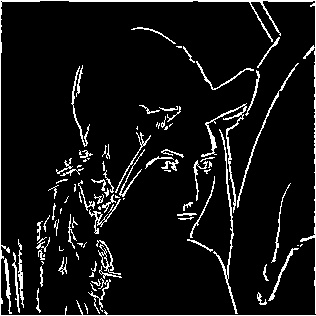
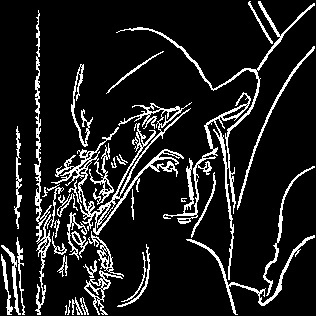
Refactor image processing code and update Canny edge detector in Q class

diff --git a/HW6/110590004_hw6.py b/HW6/110590004_hw6.py
@@ -19,7 +19,7 @@ def problem(func):
 
 class Q:
     def __init__(self):
-        
+
         self.origin_images = [cv2.imread(
             './images/img' + str(i) + '.jpg') for i in range(1, 4)]
         self.images = []
@@ -28,11 +28,14 @@ class Q:
                 (self.origin_images[i - 1].shape[0], self.origin_images[i - 1].shape[1]), dtype=np.float64)
             for row in range(self.origin_images[i - 1].shape[0]):
                 for col in range(self.origin_images[i - 1].shape[1]):
-                    r, g, b = self.origin_images[i - 1][row][col].astype(np.float64)
-                    img[row][col] = 0.299 * r + 0.587 * g + 0.114 * b 
+                    r, g, b = self.origin_images[i -
+                                                 1][row][col].astype(np.float64)
+                    img[row][col] = 0.299 * r + 0.587 * g + 0.114 * b
             self.images.append(img)
+
         def legal(h, w, row, col):
             return row >= 0 and row < h and col >= 0 and col < w
+
         def get_n_neighbors(img, row, col, n):
             result = np.zeros((n, n))
             h, w = img.shape
@@ -42,31 +45,48 @@ class Q:
                     if legal(h, w, row + i - offset, col + j - offset):
                         result[i][j] = img[row + i - offset][col + j - offset]
             return result
+
         def gaussian_filter(img, kernel_size, sigma=1):
             kernel = np.zeros((kernel_size, kernel_size))
             offset = kernel_size // 2
-            for i in range(kernel_size):
-                for j in range(kernel_size):
-                    kernel[i][j] = np.exp(-((i - offset)**2 + (j - offset)**2) / (2 * sigma**2))
+            for i in range(0, kernel_size):
+                for j in range(0, kernel_size):
+                    kernel[i][j] = np.exp(-((i - offset) **
+                                          2 + (j - offset)**2) / (2 * sigma**2))
             kernel /= np.sum(kernel)
             h, w = img.shape
             result = np.zeros((h, w))
             with alive_bar(h * w) as bar:
-                for row in range(h):
-                    for col in range(w):
+                for row in range(0, h):
+                    for col in range(0, w):
+                        if row == 0 or row == h - 1 or col == 0 or col == w - 1:
+                            result[row][col] = img[row][col]
                         neighbors = get_n_neighbors(img, row, col, kernel_size)
                         result[row][col] = np.sum(neighbors * kernel)
                         bar()
+            for i in range(h):
+                result[i][0] = result[i][1]
+                result[i][w-1] = result[i][w-2]
+            for i in range(w):
+                result[0][i] = result[1][i]
+                result[h-1][i] = result[h-2][i]
             return result
+
         def Sobel(img):
             kernel_x = np.array([[-1, 0, 1], [-2, 0, 2], [-1, 0, 1]])
-            kernel_y = np.array([[1, 2, 1], [0, 0, 0], [-1, -2, -1]])
+            kernel_y = np.array([[-1, -2, -1], [0, 0, 0], [1, 2, 1]])
             h, w = img.shape
             result_G = np.zeros((h, w))
             result_theta = np.zeros((h, w))
             with alive_bar(h * w) as bar:
+                # Skip the border
                 for row in range(h):
                     for col in range(w):
+                        if row == 0 or row == h - 1 or col == 0 or col == w - 1:
+                            result_G[row][col] = 0
+                            result_theta[row][col] = 0
+                            bar()
+                            continue
                         neighbors = get_n_neighbors(img, row, col, 3)
                         Gx = np.sum(neighbors * kernel_x)
                         Gy = np.sum(neighbors * kernel_y)
@@ -74,6 +94,7 @@ class Q:
                         result_theta[row][col] = np.arctan2(Gy, Gx)
                         bar()
             return result_G, result_theta
+
         def non_maximum_suppression(G, theta):
             h, w = G.shape
             result = np.zeros((h, w))
@@ -82,8 +103,8 @@ class Q:
                     rad = theta[row][col]
                     angle = np.rad2deg(rad) % 180
                     neighbors = get_n_neighbors(G, row, col, 3)
-                    dirs = [0 , 45, 90, 135]
-                    closet_dir = min(dirs, key=lambda x:abs(x-angle))
+                    dirs = [0, 45, 90, 135]
+                    closet_dir = min(dirs, key=lambda x: abs(x-angle))
                     if closet_dir == 0:
                         if G[row][col] >= neighbors[1][1] and G[row][col] >= neighbors[1][2]:
                             result[row][col] = G[row][col]
@@ -97,6 +118,7 @@ class Q:
                         if G[row][col] >= neighbors[1][1] and G[row][col] >= neighbors[2][0]:
                             result[row][col] = G[row][col]
             return result
+
         def double_thresholding(img, low, high):
             h, w = img.shape
             result = np.zeros((h, w))
@@ -107,38 +129,44 @@ class Q:
                     elif img[row][col] >= low:
                         result[row][col] = 128
             return result
+
         def edge_tracking_by_hysteresis(img):
 
             h, w = img.shape
             visited = np.zeros((h, w))
 
+            def dfs(q: list):
+                while len(q) > 0:
+                    r, c = q.pop()
+                    for i in range(-1, 2):
+                        for j in range(-1, 2):
+                            if legal(h, w, r + i, c + j) and img[r + i][c + j] == 128 and visited[r + i][c + j] == 0:
+                                visited[r + i][c + j] = 1
+                                img[r + i][c + j] = 255
+                                q.append((r + i, c + j))
             for row in range(h):
                 for col in range(w):
+                    # flood from strong edge
                     if img[row][col] == 255 and visited[row][col] == 0:
                         visited[row][col] = 1
-                        q = [(row, col)]
-                        while len(q) > 0:
-                            r, c = q.pop()
-                            for i in range(-1, 2):
-                                for j in range(-1, 2):
-                                    if legal(h, w, r + i, c + j) and img[r + i][c + j] == 128 and visited[r + i][c + j] == 0:
-                                        visited[r + i][c + j] = 1
-                                        img[r + i][c + j] = 255
-                                        q.append((r + i, c + j))
+                        dfs([(row, col)])
+            # set weak edge to 0
             for row in range(h):
                 for col in range(w):
                     if img[row][col] == 128:
                         img[row][col] = 0
             return img
+
         def save_img(img, name):
             img = img.astype(np.uint8)
             cv2.imwrite(name, img)
+
         @problem
         def P1():
             for i in range(1, 4):
                 print(f'Processing img{i}.jpg')
                 print('Gaussian filter')
-                gaussian = gaussian_filter(self.images[i - 1], 5, 0.8)
+                gaussian = gaussian_filter(self.images[i - 1], 5, 0.9)
                 save_img(gaussian, f'./debug/img{i}_gaussian.jpg')
                 print('Processing Sobel operator')
                 G, theta = Sobel(gaussian)
@@ -147,10 +175,11 @@ class Q:
                 non_max = non_maximum_suppression(G, theta)
                 save_img(non_max, f'./debug/img{i}_non_max.jpg')
                 print('Double thresholding')
-                double_thresh = double_thresholding(non_max, 80, 190)
+                double_thresh = double_thresholding(non_max, 80, 150)
                 save_img(double_thresh, f'./debug/img{i}_double_thresh.jpg')
                 print('Edge tracking by hysteresis')
-                edge_tracking = edge_tracking_by_hysteresis(deepcopy(double_thresh))
+                edge_tracking = edge_tracking_by_hysteresis(
+                    deepcopy(double_thresh))
                 save_img(edge_tracking, f'./results/img{i}_sobel.jpg')
         self.P1 = P1
 
